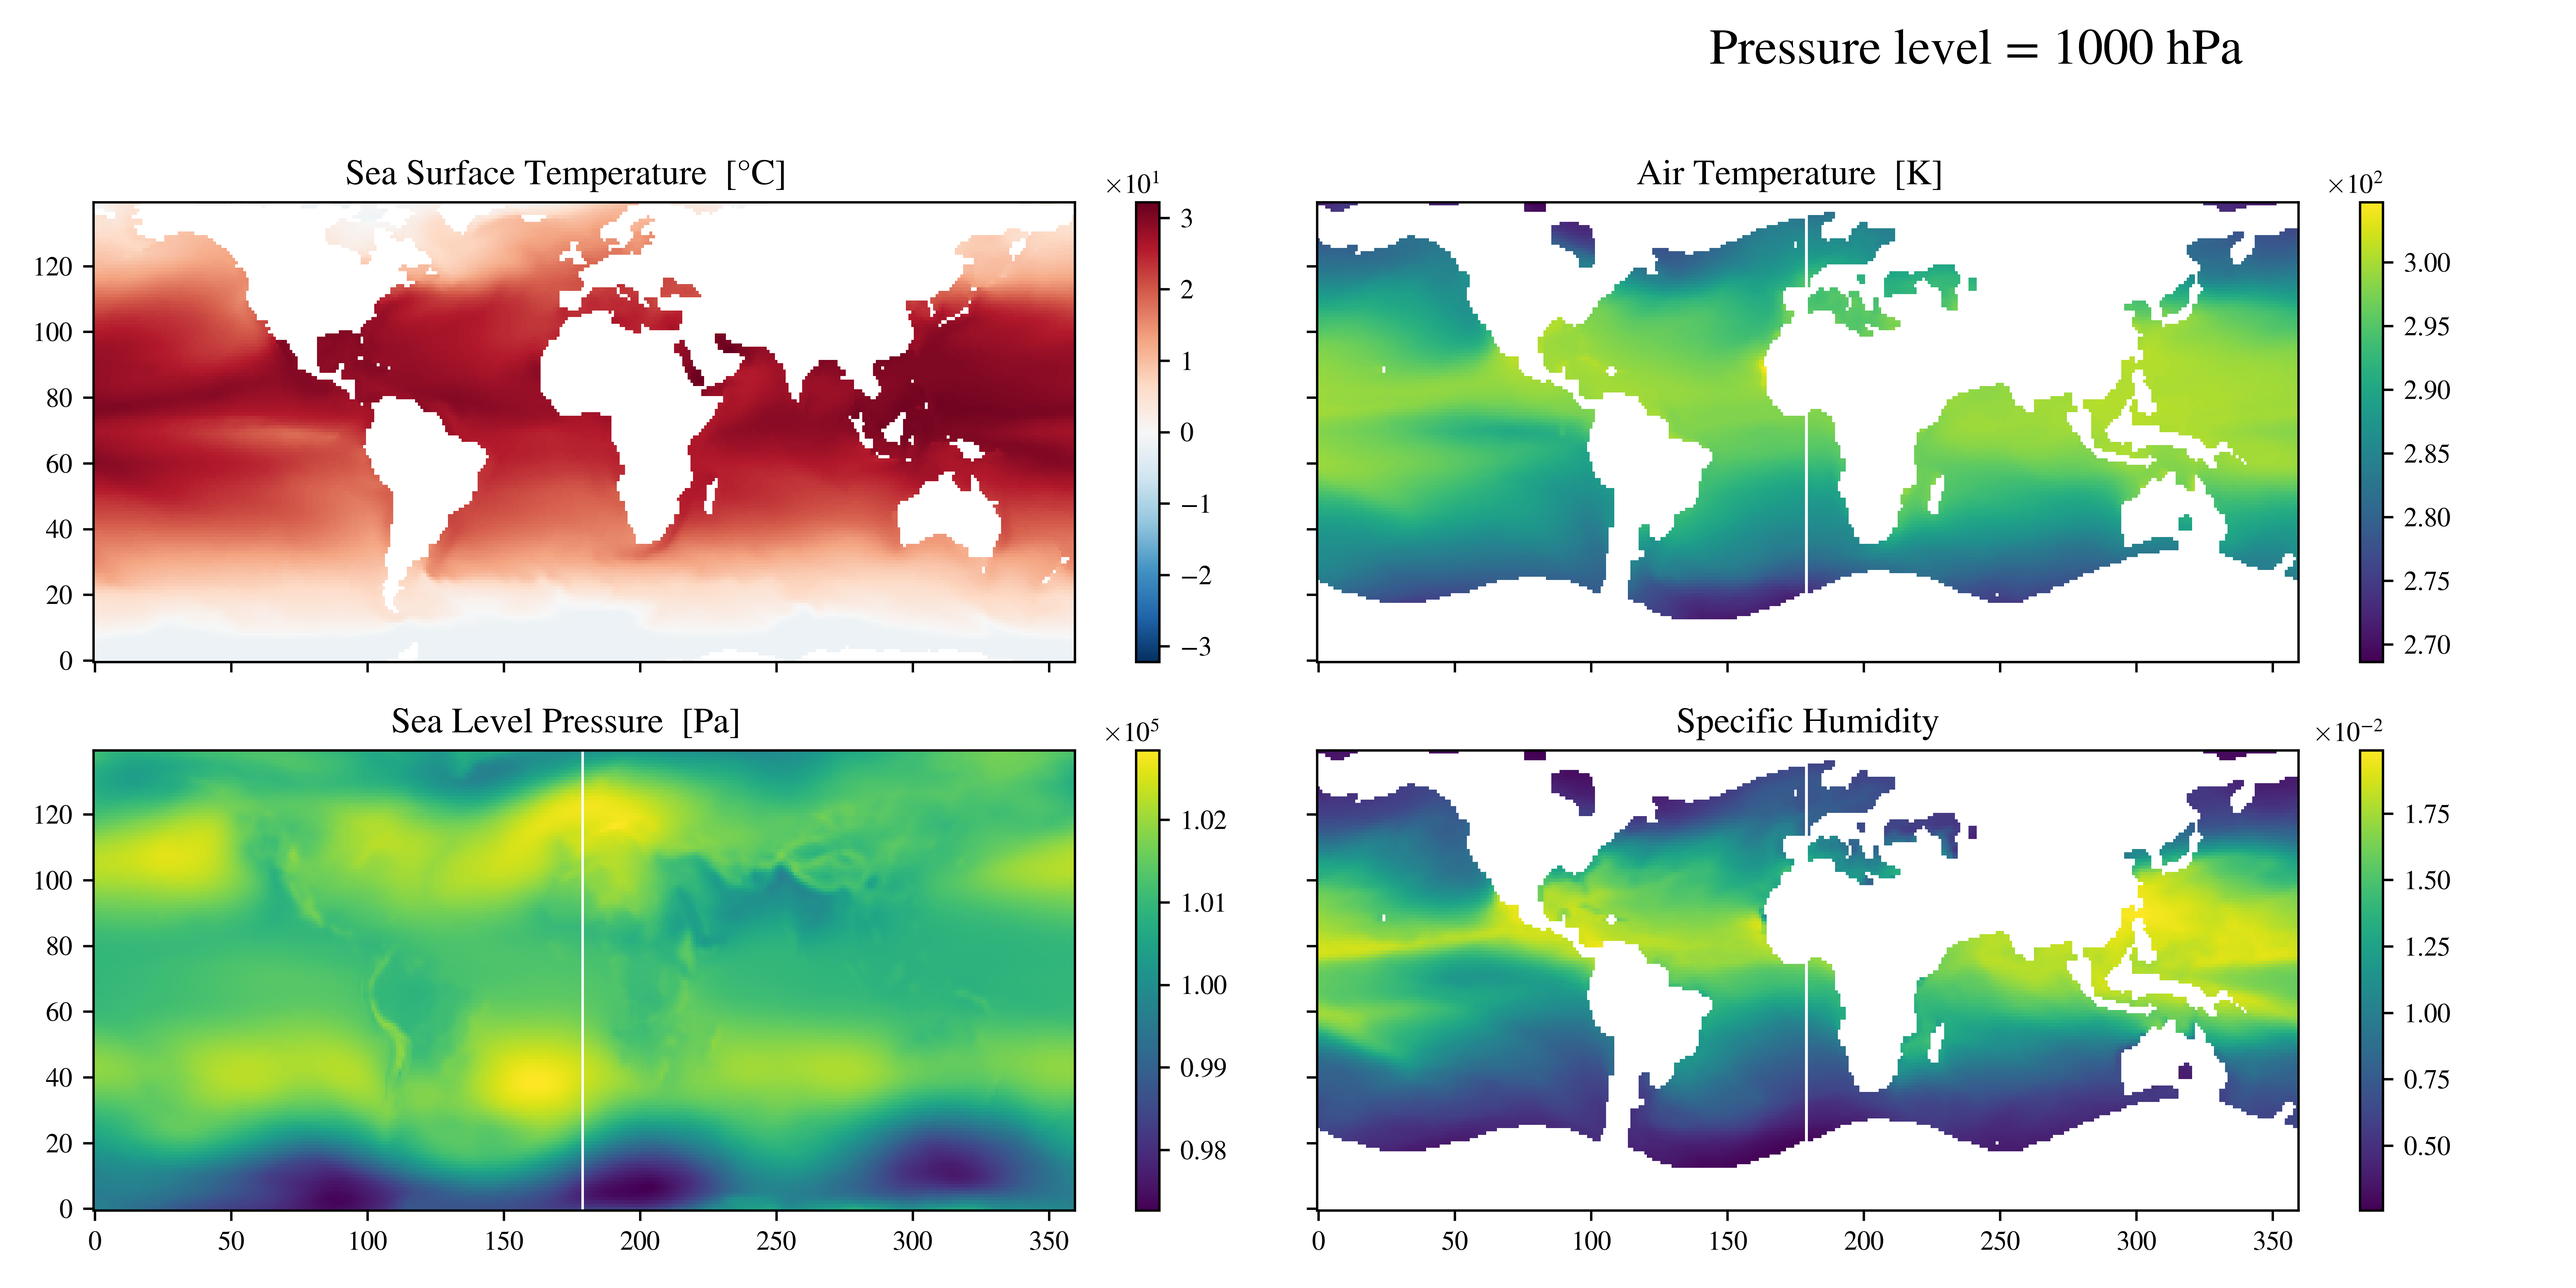
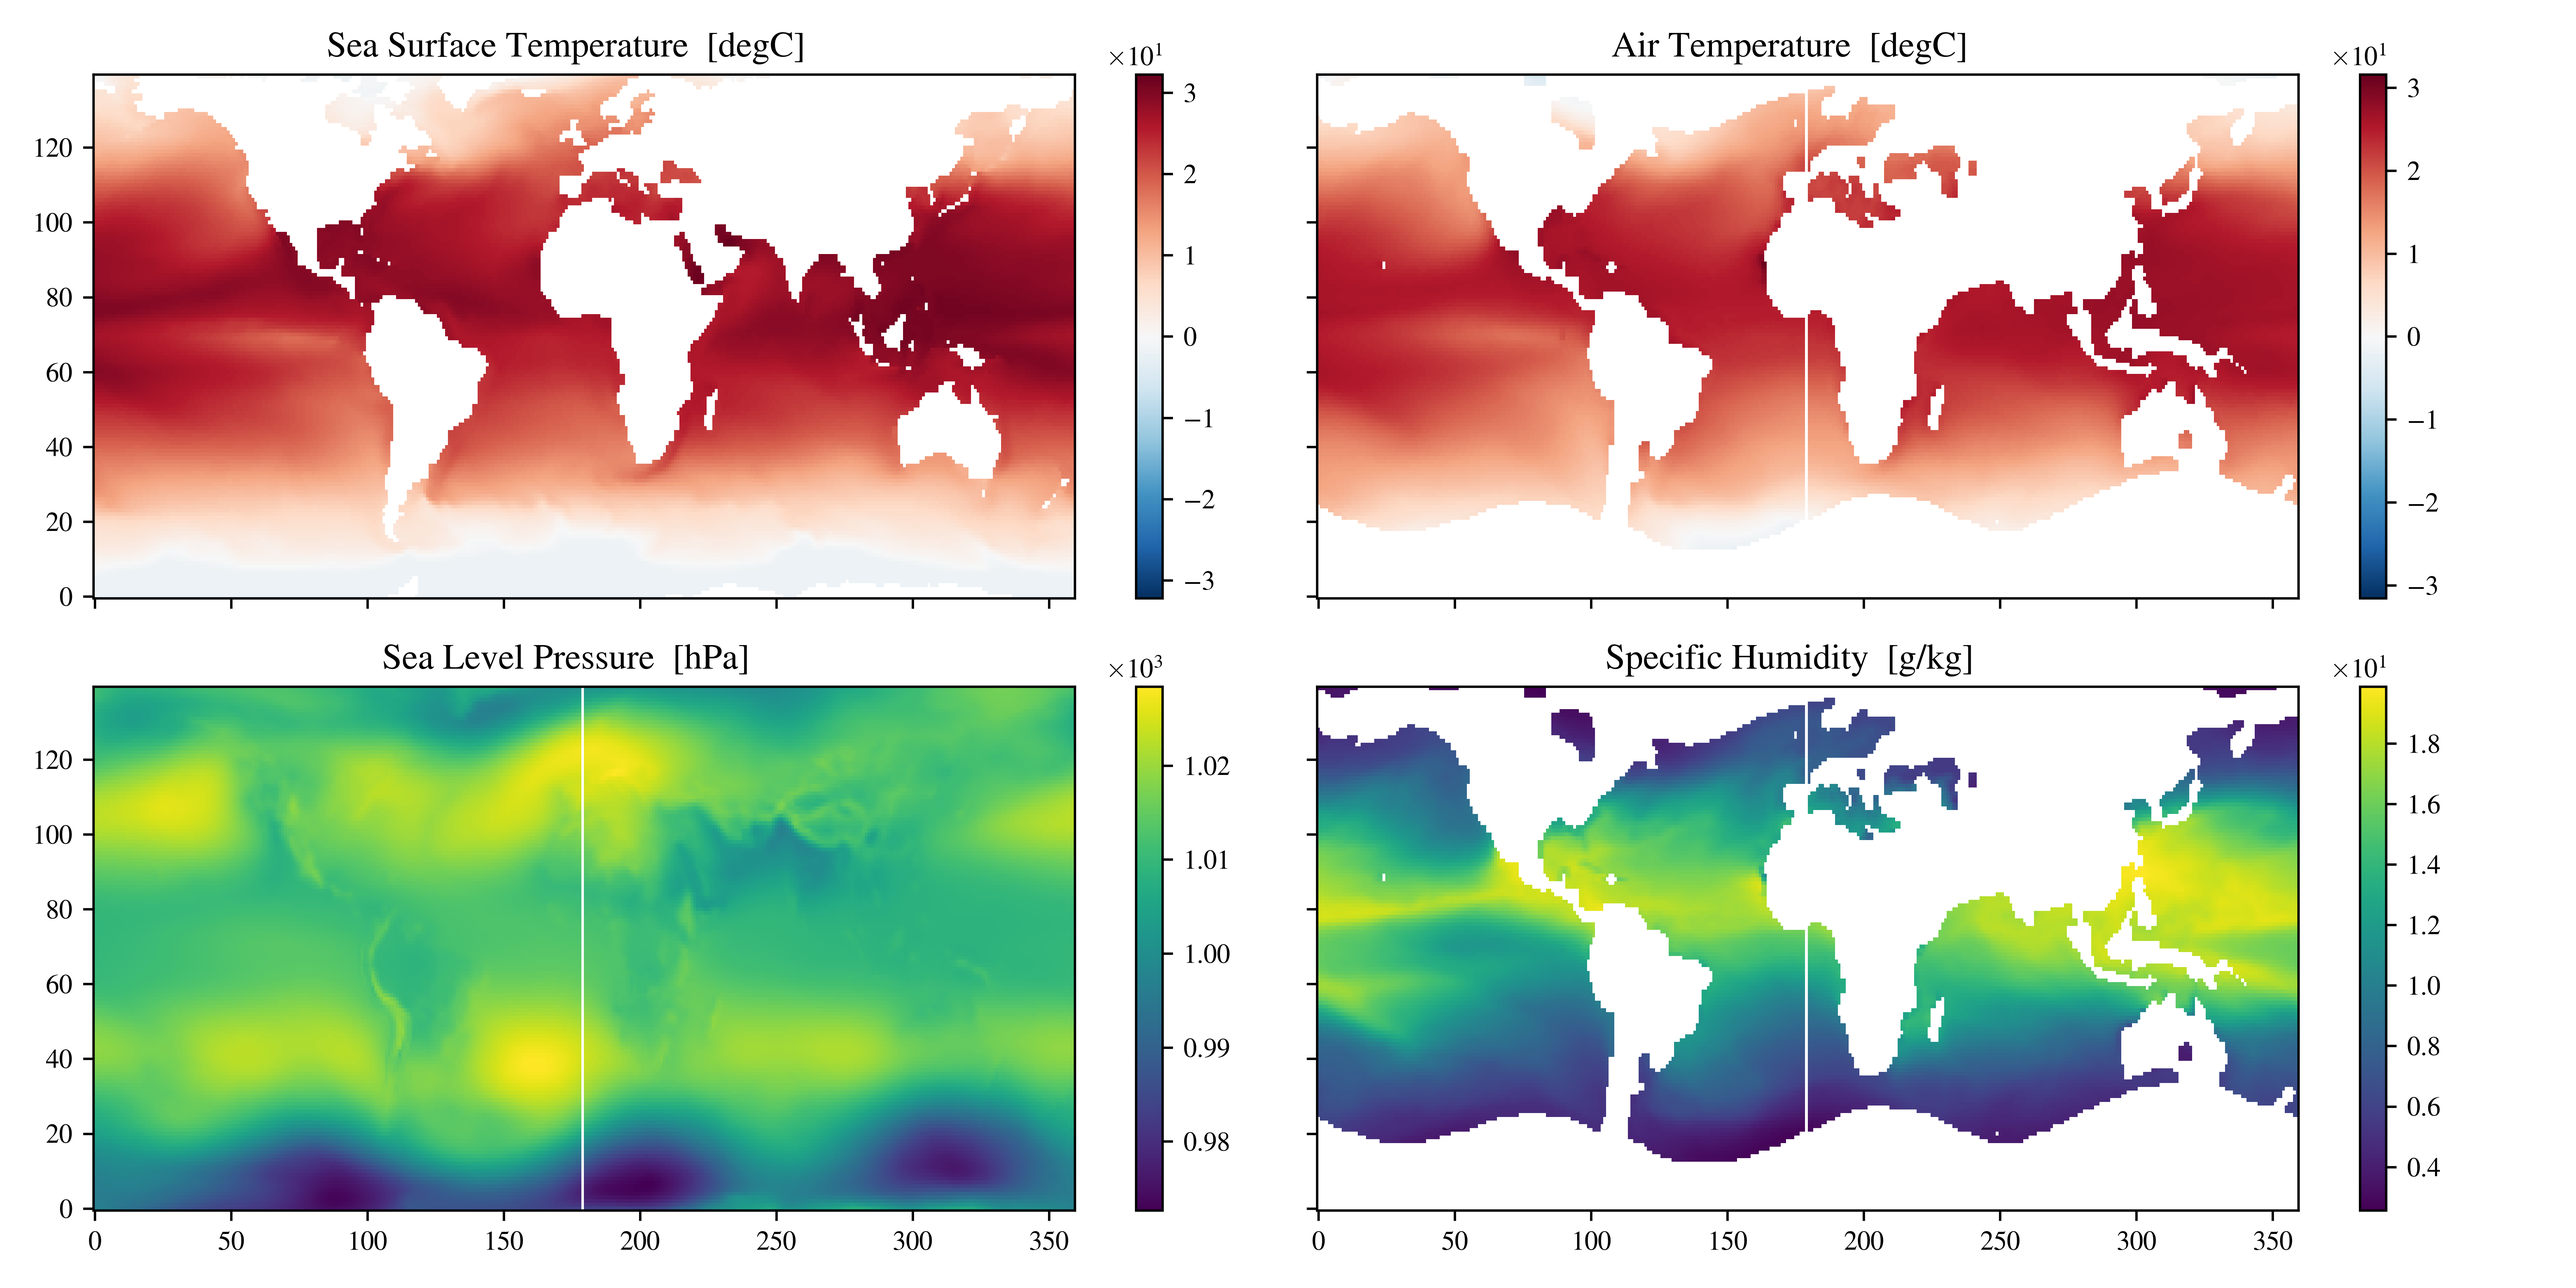
conversion names

diff --git a/example_member.py b/example_member.py
@@ -17,7 +17,26 @@ from sithom.plot import feature_grid, plot_defaults
 # ta: Air Temperature [K] [to degC]
 # psl: Sea Level Pressure [Pa] [to hPa]
 # calculate PI over the whole data set using the xarray universal function
-conversion_dict: Dict[str, str] = {"tos": "sst", "hus": "q", "ta": "t", "psl": "msl"}
+conversion_names: Dict[str, str] = {"tos": "sst", "hus": "q", "ta": "t", "psl": "msl"}
+conversion_multiples: Dict[str, float] = {"hus": 1000, "psl": 0.01, #"plev": 0.01
+                                          }
+conversion_additions: Dict[str, float] = {"ta": -273.15}
+conversion_units: Dict[str, str] = {"hus": "g/kg", "psl": "hPa", "tos": "degC", "ta": "degC", #"plev": "hPa"
+                                    }
+
+@timeit
+def convert(ds: xr.Dataset) -> xr.Dataset:
+    for var in conversion_multiples:
+        if var in ds:
+            ds[var] *= conversion_multiples[var]
+    for var in conversion_additions:
+        if var in ds:
+            ds[var] += conversion_additions[var]
+    for var in conversion_units:
+        if var in ds:
+            ds[var].attrs["units"] = conversion_units[var]
+    ds = ds.rename(conversion_names)
+    return ds
 
 # url = intake_esm.tutorial.get_url('google_cmip6')
 url = "https://storage.googleapis.com/cmip6/pangeo-cmip6.json"
@@ -38,7 +57,7 @@ def get_atmos():
         institution_id="NCAR",
         member_id="r10i1p1f1",
         source_id="CESM2",
-        variable_id=conversion_dict.keys(),
+        variable_id=conversion_names.keys(),
         # grid_label="gn",
     )
 
@@ -80,7 +99,7 @@ def get_all():
         institution_id="NCAR",
         member_id="r10i1p1f1",
         source_id="CESM2",
-        variable_id=conversion_dict.keys(),
+        variable_id=conversion_names.keys(),
         # grid_label="gn",
     )
 
@@ -120,7 +139,7 @@ def get_ocean():
         institution_id="NCAR",
         member_id="r10i1p1f1",
         source_id="CESM2",
-        variable_id=conversion_dict.keys(),
+        variable_id=conversion_names.keys(),
         # dcpp_init_year="20200528",
         grid_label="gn",
     )
@@ -204,7 +223,7 @@ def regrid_2d_1degree():
         engine="h5netcdf",
         encoding={
             var: {"dtype": "float32", "zlib": True, "complevel": 9}
-            for var in conversion_dict.keys()
+            for var in conversion_names.keys()
             if var in atmos_ds
         },
     )
@@ -515,12 +534,13 @@ def plot_features(plot_ds: xr.Dataset, features, units=None, names=None, vlim=No
     )
 
 
+@timeit
 def plot_combined(time: str = "2015-01-15"):
     plot_defaults()
-    ds = combined_data_timestep(time=time)
-    plot_features(ds.isel(plev=0,y=slice(20, -20)), [["tos", "ta"], ["psl", "hus"]], super_titles=["", "Pressure level = 1000 hPa"])
+    ds = convert(combined_data_timestep(time=time).isel(plev=0))
+    plot_features(ds.isel(y=slice(20, -20)), [["sst", "t"], ["msl", "q"]], super_titles=["", ""])
     plt.savefig(f"img/combined-{time}.png")
-    plt.title()
+    plt.title(time)
     plt.clf()
 
 
@@ -545,8 +565,9 @@ if __name__ == "__main__":
     # ds = xr.open_dataset("data/ocean_regridded.nc")
     # ds.tos.isel(time=0).plot(x="lon", y="lat")
     # plt.show()
-    for times in ["1850-09-15", "1950-09-15", "2015-09-15", "2099-09-15"]:
-        plot_combined(time=times)
+    for time in ["1850-09-15", "1950-09-15", "2015-09-15", "2099-09-15"]:
+        # print(convert(combined_data_timestep(time=time)))
+        plot_combined(time=time)
     #print(combined_data_timestep(time="2015-01-15"))
     #print(combined_data_timestep(time="1850-01-15"))
     #print(combined_data_timestep(time="2099-01-15"))
